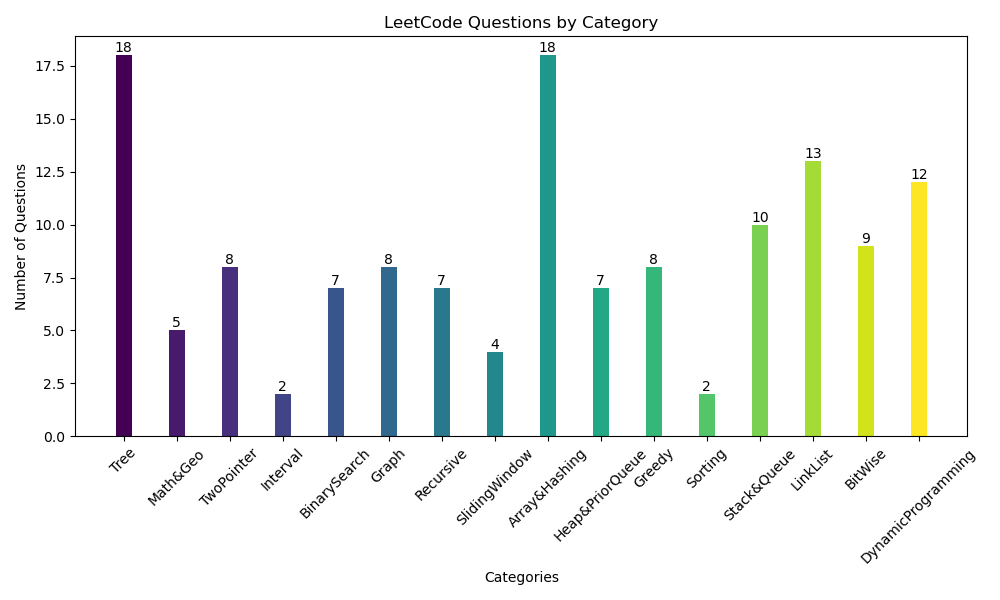
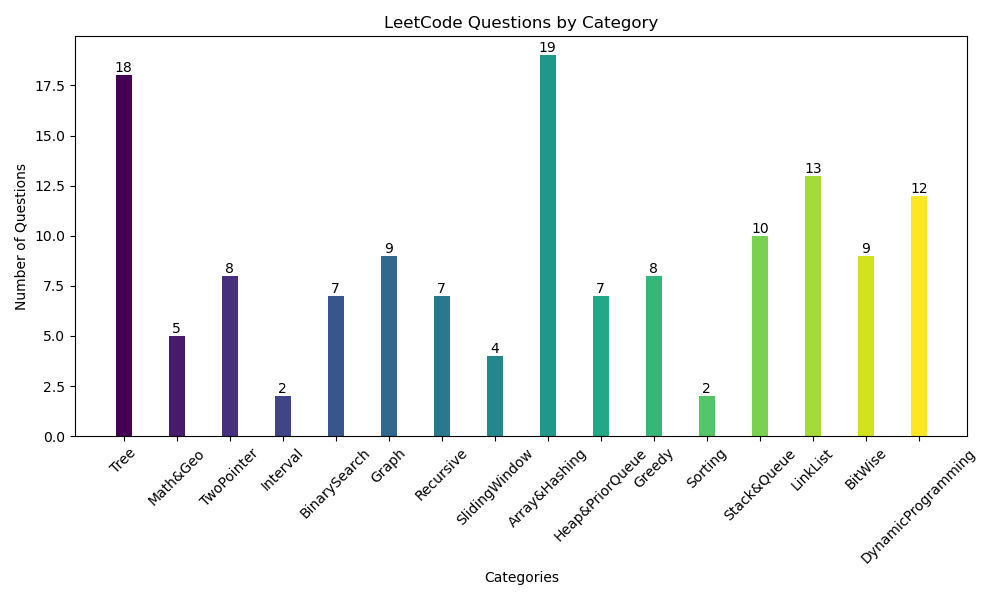
pratices DFS, hasmap

diff --git a/Graph/210.CourseSchedule2.cpp b/Graph/210.CourseSchedule2.cpp
@@ -1,0 +1,48 @@
+// hint
+// important
+/*
+    kahn's algorithm, 先hashmap計算每個node in-degree,
+   in-degree為0的node開始BFS, 每次都push到res vector, 直到queue為空
+
+   2. DFS: 如果不存在cycle, 一定存在一種組合可以走完
+*/
+class Solution {
+  public:
+	vector<int> findOrder(int numCourses, vector<vector<int>> &prerequisites) {
+		vector<vector<int>> graph(numCourses);
+		vector<int> in_degree(numCourses, 0);
+		vector<int> res;
+		queue<int> courses;
+
+		for (auto &p : prerequisites) {
+			++in_degree[p[0]];
+			graph[p[1]].push_back(p[0]);
+		}
+		// start from in-degree=0 node
+		for (int i = 0; i < in_degree.size(); ++i) {
+			if (in_degree[i] == 0)
+				courses.push(i);
+		}
+		int delete_num = 0; // check if all node is deleted(cycle check)
+		while (!courses.empty()) {
+			int cur_course = courses.front();
+			// cur_course in-degree為0就push進res(不會再遇到了)
+			if (in_degree[cur_course] == 0) {
+				res.push_back(cur_course);
+				// delete from in_degree
+			}
+
+			// push next course to queue and pop node
+			for (int i = 0; i < graph[cur_course].size(); ++i) {
+				int next_course = graph[cur_course][i];
+
+				if (--in_degree[next_course] == 0)
+					courses.push(next_course);
+			}
+			courses.pop();
+			++delete_num;
+		}
+		vector<int> empty_res;
+		return delete_num == numCourses ? res : empty_res;
+	}
+};

diff --git a/Array&Hashing/1399.CountLargestGroup.cpp b/Array&Hashing/1399.CountLargestGroup.cpp
@@ -1,0 +1,36 @@
+
+/*
+    1. 先去計算有多少digit
+    2. create hashtable[9*digit]
+    time complexity O(n),
+
+*/
+class Solution {
+  public:
+	int countLargestGroup(int n) {
+		vector<int> groups(n + 1, 0);
+
+		for (int i = 1; i <= n; ++i) {
+			int sum_digits = 0;
+			int num = i;
+			while (num > 0) {
+				sum_digits += (num % 10);
+				num /= 10;
+			}
+			++groups[sum_digits];
+		}
+		int count_max_groups = 0;
+		int max_group_size = 0;
+		for (int i = 0; i < groups.size(); ++i) {
+			if (groups[i] == 0)
+				continue;
+			if (groups[i] > max_group_size) {
+				count_max_groups = 1;
+				max_group_size = groups[i];
+			} else if (groups[i] == max_group_size) {
+				++count_max_groups;
+			}
+		}
+		return count_max_groups;
+	}
+};

diff --git a/README.md b/README.md
@@ -1,7 +1,7 @@
 # LeetCode Problems
 
 ❌  can't resolve without solution: 6
-📝  can't resolve without hint: 118
+📝  can't resolve without hint: 120
 ✅  resolve by self: 14
 ## Tree
 - 📝 PrefixTree
@@ -60,6 +60,7 @@
 - 📝 CourseSchedule
 - 📝 PacificAtlanticWaterFlow
 - 📝 isoLand
+- 📝 210.CourseSchedule2
 - 📝 maxLand
 - 📝 rottingFruit
 
@@ -87,6 +88,7 @@
 - 📝 ValidAnagram
 - 📝 removeElement
 - 📝 2sum
+- 📝 1399.CountLargestGroup
 - 📝 2145.CounttheHiddenSequences
 - 📝 TopKFreq
 - 📝 EdString
@@ -174,7 +176,7 @@
 - ✅ uniquePath
 
 ## Statistics
-Current total questions: 138
+Current total questions: 140
 
 <img src="chart.png" alt="questions bar chart" width="500">
 
